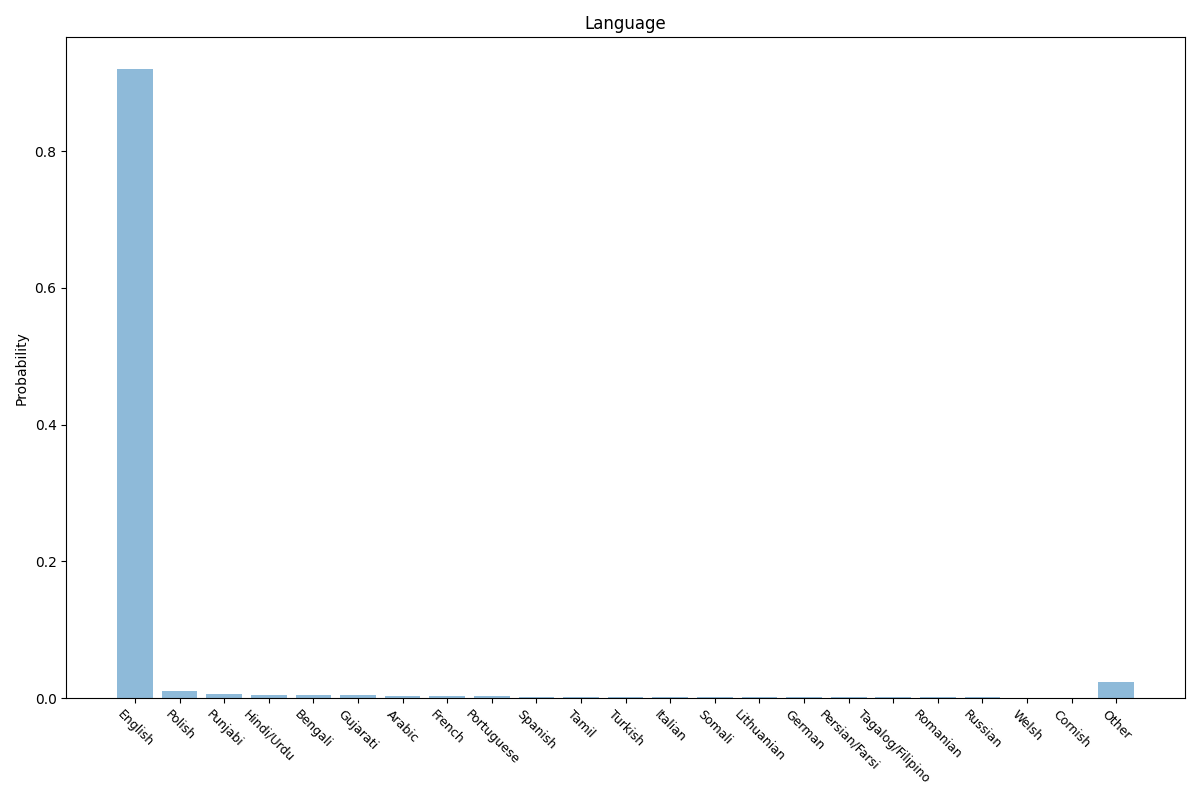
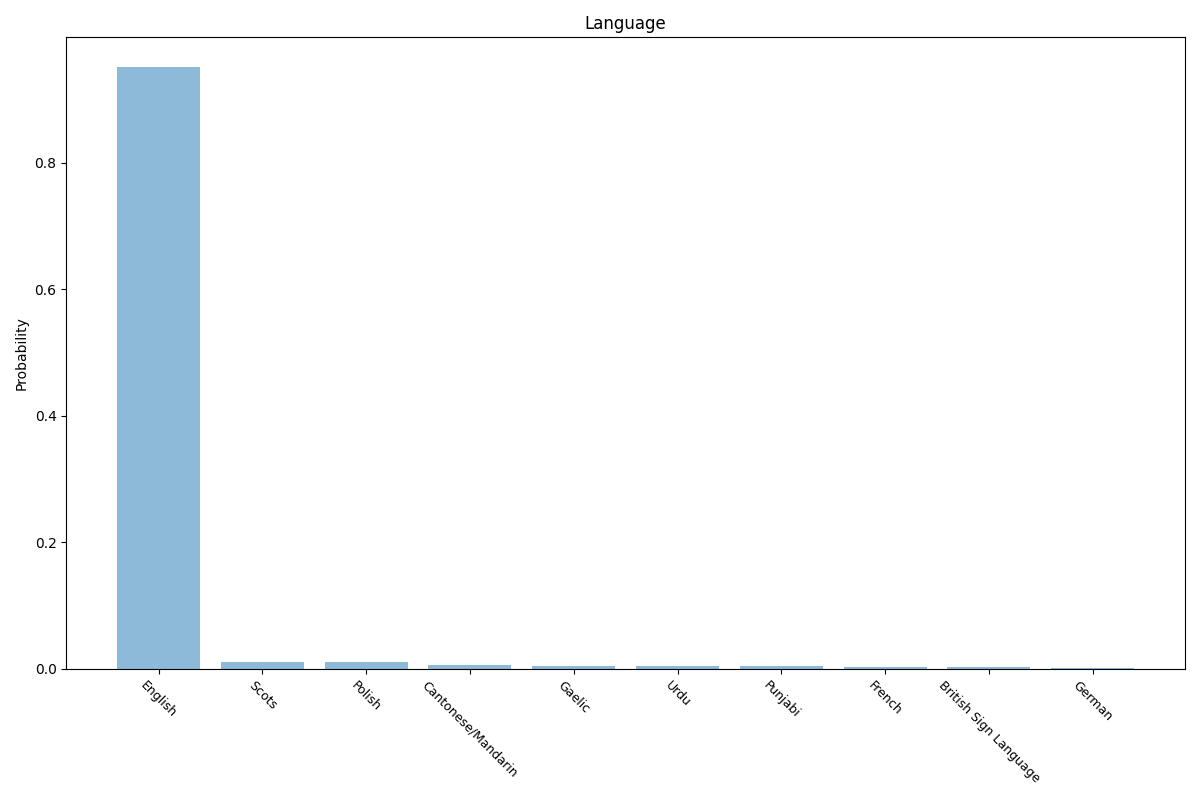
Generate readme

diff --git a/data/australia/README.md b/data/australia/README.md
@@ -1,7 +1,19 @@
 # Australia
 
-## Source
+## Age
 
-Age and sex data sourced from 2021 census.
+![Age](img/age.png)
 
-https://www.abs.gov.au/statistics/people/population/population-census/2021
+## Sex
+
+![Sex](img/sex.png)
+
+## Religion
+
+![Religion](img/religion.png)
+
+## Language
+
+![Language](img/language.png)
+
+## Sources
